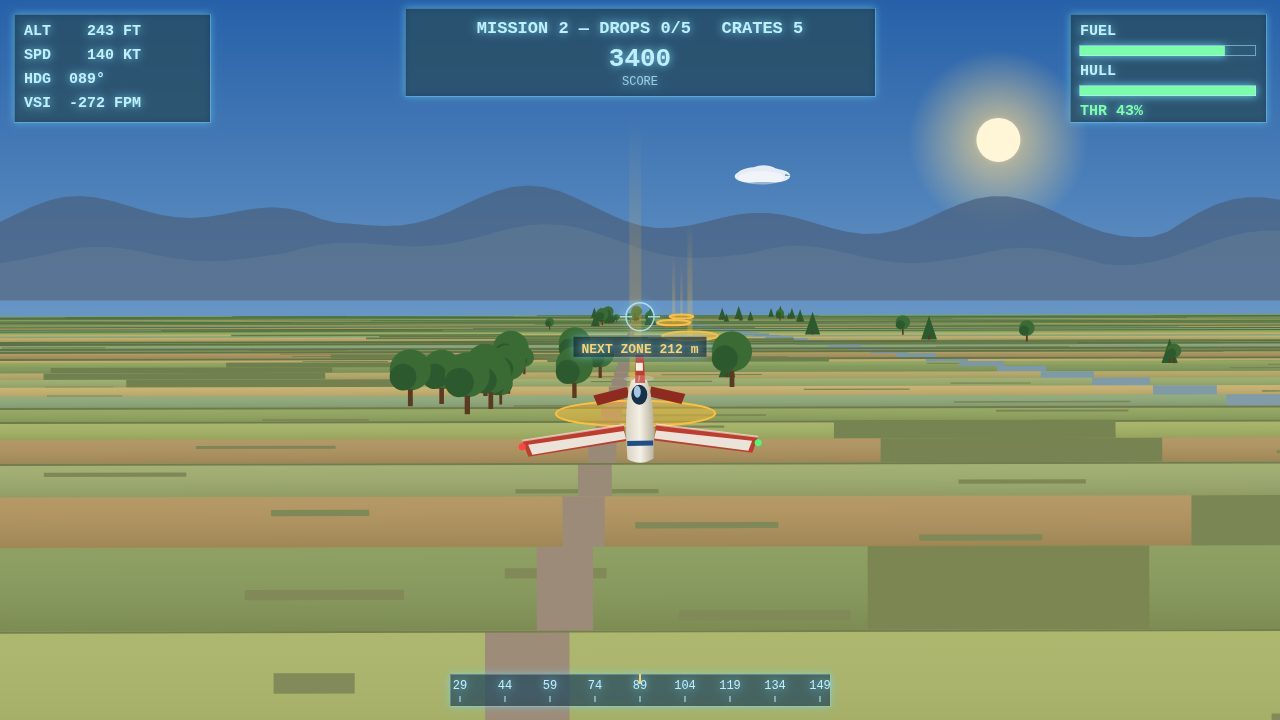
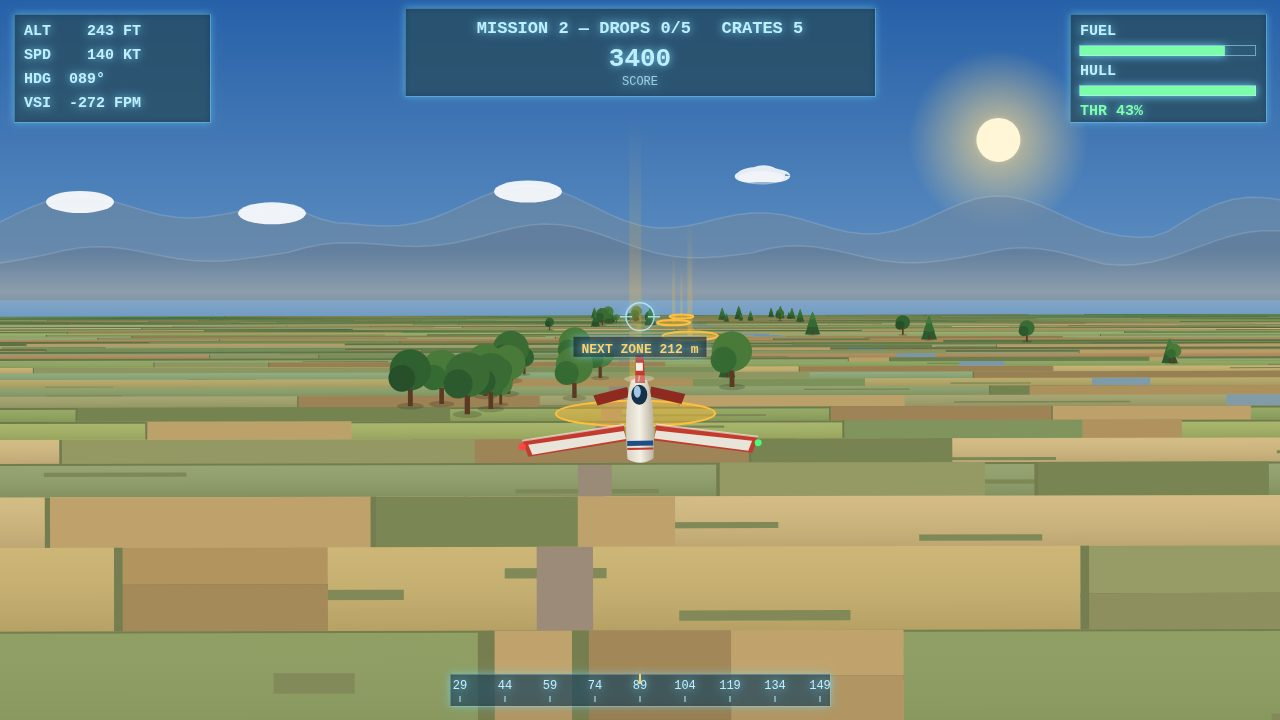
Sky Courier round 3: patchwork fields, horizon haze, mountain snow/ridge light, layered trees, runway tyre marks + threshold + mow stripes, lighter title overlay

diff --git a/game/src/render.js b/game/src/render.js
@@ -14,7 +14,11 @@ export const SCREEN_WIN = 6;
 const FIELDS = [
   [96, 148, 74], [124, 168, 82], [74, 128, 66], [176, 164, 96],
   [110, 158, 96], [88, 138, 88], [150, 150, 84], [138, 118, 70],
-  [92, 152, 112],
+  [92, 152, 112], [150, 112, 70], [190, 175, 120], [118, 142, 92],
+];
+const PATCH_COLS = [
+  [52, 96, 52], [138, 118, 70], [112, 96, 58], [70, 120, 70],
+  [160, 140, 90], [96, 128, 80],
 ];
 const RIVER_COL = [72, 132, 182];
 const ROAD_COL = [104, 104, 110];
@@ -79,7 +83,9 @@ export function createRenderer(canvas) {
     const base = layer === 0 ? 66 : 40;
     const amp = layer === 0 ? 34 : 22;
     const speed = layer === 0 ? 0.05 : 0.11;
-    const col = layer === 0 ? 'rgba(74,98,128,0.75)' : 'rgba(96,122,150,0.6)';
+    // Far range is hazier and lighter than the near one (atmospheric
+    // perspective), so the ridge reads as distance, not a flat wall.
+    const col = layer === 0 ? 'rgba(110,136,162,0.62)' : 'rgba(96,122,150,0.6)';
     // Sample the ridge first so snow caps can sit on its peaks.
     const ridge = [];
     for (let x = 0; x <= w; x += 16) {
@@ -94,18 +100,40 @@ export function createRenderer(canvas) {
     ctx.lineTo(w, horizonY + 2);
     ctx.closePath();
     ctx.fill();
-    // Snow caps on the far range's peaks.
+    // Lit ridge edge: a faint highlight along the crest so the range
+    // has a sunlit side instead of one flat fill.
+    ctx.strokeStyle = 'rgba(255,255,255,0.14)';
+    ctx.lineWidth = 1.5;
+    ctx.beginPath();
+    for (let k = 0; k < ridge.length; k += 1) {
+      const [x, y] = ridge[k];
+      if (k === 0) ctx.moveTo(x, y);
+      else ctx.lineTo(x, y);
+    }
+    ctx.stroke();
+    // Snow caps on the far range's peaks — big enough to read at a glance.
     if (layer === 0) {
-      ctx.fillStyle = 'rgba(255,255,255,0.85)';
+      ctx.fillStyle = 'rgba(255,255,255,0.9)';
       for (let i = 1; i < ridge.length - 1; i += 1) {
         const [x, y] = ridge[i];
-        if (y < ridge[i - 1][1] - 2 && y < ridge[i + 1][1] - 2) {
+        if (y < ridge[i - 1][1] - 1 && y < ridge[i + 1][1] - 1) {
           ctx.beginPath();
-          ctx.ellipse(x, y + 5, 26, 9, 0, 0, Math.PI * 2);
+          ctx.ellipse(x, y + 6, 34, 11, 0, 0, Math.PI * 2);
           ctx.fill();
         }
       }
     }
+  }
+
+  function drawHaze(w, horizonY) {
+    // A soft pale veil straddling the horizon: it melts the hard line
+    // where flat ground meets sky and gives the far world atmosphere.
+    const g = ctx.createLinearGradient(0, horizonY - 46, 0, horizonY + 26);
+    g.addColorStop(0, 'rgba(246,232,200,0)');
+    g.addColorStop(0.55, 'rgba(246,232,200,0.28)');
+    g.addColorStop(1, 'rgba(246,232,200,0)');
+    ctx.fillStyle = g;
+    ctx.fillRect(0, horizonY - 46, w, 72);
   }
 
   function drawClouds(w, horizonY, camZ, camX, clouds, camDepth) {
@@ -200,20 +228,22 @@ export function createRenderer(canvas) {
     ctx.fill();
     // Propeller blur: from chase view the spinning disc reads as a faint
     // thin ellipse at the nose, with two blur spokes turning with time.
-    ctx.fillStyle = 'rgba(255,255,255,0.20)';
+    ctx.fillStyle = 'rgba(255,255,255,0.28)';
     ctx.beginPath();
     ctx.ellipse(0, -54, 15, 3.5, 0, 0, Math.PI * 2);
     ctx.fill();
     const pa = time * 9;
-    ctx.strokeStyle = 'rgba(255,255,255,0.35)';
+    ctx.strokeStyle = 'rgba(255,255,255,0.45)';
     ctx.lineWidth = 1.5;
     ctx.beginPath();
     ctx.moveTo(-Math.cos(pa) * 13, -54 - Math.sin(pa) * 3);
     ctx.lineTo(Math.cos(pa) * 13, -54 + Math.sin(pa) * 3);
     ctx.stroke();
-    // Registration stripe.
+    // Registration stripe, plus a thin red cheatline below it.
     ctx.fillStyle = '#1d4e89';
     ctx.fillRect(-13, 8, 26, 5);
+    ctx.fillStyle = '#c23b2e';
+    ctx.fillRect(-13, 15, 26, 2);
     // Nav lights, blinking.
     if (Math.floor(time * 2) % 2 === 0) {
       ctx.fillStyle = '#ff4444';
@@ -345,7 +375,7 @@ export function createRenderer(canvas) {
   }
 
   function overlay(w, h, lines, accent) {
-    ctx.fillStyle = 'rgba(6,12,22,0.45)';
+    ctx.fillStyle = 'rgba(6,12,22,0.38)';
     ctx.fillRect(0, 0, w, h);
     const bw = Math.min(640, w - 60);
     const bh = 54 + lines.length * 30;
@@ -381,6 +411,7 @@ export function createRenderer(canvas) {
     drawSky(w, h, horizonY, state.time);
     drawMountains(w, h, horizonY, camZ, camX, 0);
     drawMountains(w, h, horizonY, camZ, camX, 1);
+    drawHaze(w, horizonY);
 
     // Bank the world a little with the roll.
     ctx.save();
@@ -449,11 +480,65 @@ export function createRenderer(canvas) {
             ctx.fillRect(-40, topY, w + 80, 2);
           }
         }
-        // Field patch: a darker strip across part of the band.
-        if (!onRunway && !crossRoad && hash(i * 7 + 3) < 0.5) {
-          const px = hash(i * 13 + 1) * w;
-          ctx.fillStyle = mix3([52, 96, 52], SKY_HORIZON, haze * 0.7);
-          ctx.fillRect(px, topY, w * 0.22, bandH);
+        // Field patchwork: two or three irregular plots per band, each a
+        // different crop colour with a hedgerow edge, so the ground reads
+        // as a patchwork of fields instead of one full-width stripe.
+        // Seeded by the band index, so the same band always looks the same.
+        if (!onRunway && !crossRoad) {
+          const patchCount = 2 + Math.floor(hash(i * 41 + 9) * 2);
+          for (let p = 0; p < patchCount; p += 1) {
+            const px = hash(i * 47 + p * 23 + 3) * w * 0.9;
+            const pw = w * (0.12 + hash(i * 19 + p * 31 + 7) * 0.22);
+            const pcol = PATCH_COLS[Math.floor(hash(i * 53 + p * 11 + 5) * PATCH_COLS.length)];
+            ctx.fillStyle = mix3(pcol, SKY_HORIZON, haze * 0.7);
+            ctx.fillRect(px, topY, pw, bandH);
+            // Tall near bands: split the patch horizontally with a
+            // hedgerow line and a darker lower half, so a huge
+            // foreground band does not read as one flat slab. The split
+            // sits inside the VISIBLE part of the band — a tall band
+            // runs far below the frame, so a fraction of its full height
+            // would land off-screen.
+            if (bandH > 60) {
+              const visH = Math.min(bandH, h - topY);
+              const split = topY + visH * (0.4 + hash(i * 61 + p * 7) * 0.2);
+              ctx.fillStyle = mix3([40, 70, 44], SKY_HORIZON, haze * 0.7);
+              ctx.fillRect(px, split, pw, Math.max(1, visH * 0.05));
+              const darker = [Math.round(pcol[0] * 0.85), Math.round(pcol[1] * 0.85), Math.round(pcol[2] * 0.85)];
+              ctx.fillStyle = mix3(darker, SKY_HORIZON, haze * 0.7);
+              ctx.fillRect(px, split, pw, topY + bandH - split);
+            }
+            // Hedgerow along the patch's left edge.
+            ctx.fillStyle = mix3([42, 82, 46], SKY_HORIZON, haze * 0.7);
+            ctx.fillRect(px, topY, Math.max(1, bandH * 0.1), bandH);
+          }
+        }
+        // Airfield grass: mowing stripes in world space — every other
+        // 40 m strip is mown lighter, so the near airfield does not read
+        // as one flat warm slab (the near-field warm tint flattens it).
+        // Drawn before the strip, so the asphalt covers the middle.
+        if (onRunway && !crossRoad) {
+          for (let k = -20; k <= 20; k += 1) {
+            if (k % 2 !== 0) continue;
+            const wx = k * 40;
+            const sx = w / 2 + (camDepth * (wx - camX)) / d;
+            const sw = Math.max(1.5, (camDepth * 40) / d);
+            if (sx + sw < -20 || sx - sw > w + 20) continue;
+            ctx.fillStyle = mix3([124, 164, 102], SKY_HORIZON, haze * 0.7);
+            ctx.fillRect(sx - sw / 2, topY, sw, bandH);
+          }
+        }
+        // Tall near airfield bands: split horizontally with a mow line
+        // and a slightly darker lower half, so the foreground grass is
+        // not one flat slab (world-space stripes are wider than the
+        // screen this close to the camera, so they cannot do the job).
+        // The split sits inside the VISIBLE part of the band.
+        if (onRunway && !crossRoad && bandH > 60) {
+          const visH = Math.min(bandH, h - topY);
+          const split = topY + visH * (0.45 + hash(i * 71 + 3) * 0.15);
+          ctx.fillStyle = mix3([70, 110, 60], SKY_HORIZON, haze * 0.7);
+          ctx.fillRect(-40, split, w + 80, Math.max(1, visH * 0.05));
+          ctx.fillStyle = mix3([88, 119, 73], SKY_HORIZON, haze * 0.7);
+          ctx.fillRect(-40, split, w + 80, topY + bandH - split);
         }
         // The runway: asphalt strip on the grass, thin dashed centreline,
         // edge lines, taxiway and amber edge lights. Line widths are
@@ -465,6 +550,15 @@ export function createRenderer(canvas) {
           // Asphalt strip.
           ctx.fillStyle = mix3([88, 88, 96], SKY_HORIZON, haze * 0.7);
           ctx.fillRect(cx - half, topY, half * 2, bandH);
+          // Tyre marks: two dark wheel tracks down the strip, so the
+          // asphalt has texture even at close range, where the strip is
+          // wider than the screen and nothing else reads on it.
+          for (const side of [-1, 1]) {
+            const tx = cx + side * ((camDepth * 6) / d);
+            const tw = Math.max(1.5, (camDepth * 2.2) / d);
+            ctx.fillStyle = 'rgba(52,52,60,0.4)';
+            ctx.fillRect(tx - tw / 2, topY, tw, bandH);
+          }
           // Centreline dashes: 20 m of paint, 30 m of gap, in world space.
           const zm = z - SEG_LEN / 2;
           if ((((zm % 50) + 50) % 50) < 20) {
@@ -484,6 +578,22 @@ export function createRenderer(canvas) {
           ctx.moveTo(cx + half, y);
           ctx.lineTo(cx + half, prevY);
           ctx.stroke();
+          // Threshold bars at the start of the strip: eight white bars
+          // across the asphalt, so the runway's beginning reads clearly.
+          if (z - RUNWAY.z0 < 60) {
+            ctx.fillStyle = 'rgba(255,255,255,0.85)';
+            const bars = 8;
+            for (let b = 0; b < bars; b += 1) {
+              const bx0 = cx - half + ((b + 0.15) / bars) * half * 2;
+              const bw = (half * 2 * 0.7) / bars;
+              ctx.fillRect(bx0, topY, bw, bandH);
+            }
+          }
+          // Mown grass shoulder on the left of the strip, lighter than
+          // the surrounding field, so the airfield has a kept edge.
+          const shoulderW = Math.max(2, (camDepth * 10) / d);
+          ctx.fillStyle = mix3([126, 162, 100], SKY_HORIZON, haze * 0.7);
+          ctx.fillRect(cx - half - shoulderW, topY, shoulderW, bandH);
           // Taxiway beside the strip, and amber edge lights down both sides.
           const taxiW = Math.max(2, (camDepth * 12) / d);
           ctx.fillStyle = mix3([70, 70, 78], SKY_HORIZON, haze * 0.7);
@@ -575,24 +685,50 @@ export function createRenderer(canvas) {
         const gy = horizonY + (camDepth * (camAlt - world.groundAt(t.z))) / d;
         const s = (camDepth * 9 * t.s) / d;
         if (s < 2 || sx < -20 || sx > w + 20) continue;
+        // Soft ground shadow so the tree sits on the field, not on top of it.
+        ctx.fillStyle = 'rgba(0,0,0,0.16)';
+        ctx.beginPath();
+        ctx.ellipse(sx, gy, s * 0.55, s * 0.14, 0, 0, Math.PI * 2);
+        ctx.fill();
+        const greens = t.round
+          ? [['#3a6b35', '#2c5a2e'], ['#4a7a3a', '#356b33'], ['#2f6030', '#274f2a']]
+          : [['#2c5a2e', '#356b33', '#3f7a3a'], ['#27512b', '#2f6030', '#3a7038']];
+        const g = greens[Math.floor(hash(Math.floor(t.z) * 7 + Math.floor(t.x)) * greens.length)];
         if (t.round) {
-          // Round-canopy tree: a leafy crown over a trunk.
-          ctx.fillStyle = '#3a6b35';
+          // Round-canopy tree: two overlapping crowns over a trunk, so it
+          // reads as a volume from any distance.
+          ctx.fillStyle = g[0];
           ctx.beginPath();
           ctx.arc(sx, gy - s * 1.5, s * 0.85, 0, Math.PI * 2);
           ctx.fill();
-          ctx.fillStyle = '#2c5a2e';
+          ctx.fillStyle = g[1];
           ctx.beginPath();
-          ctx.arc(sx - s * 0.3, gy - s * 1.2, s * 0.55, 0, Math.PI * 2);
+          ctx.arc(sx - s * 0.35, gy - s * 1.15, s * 0.55, 0, Math.PI * 2);
           ctx.fill();
           ctx.fillStyle = '#5a3a22';
           ctx.fillRect(sx - s * 0.1, gy - s * 0.7, s * 0.2, s * 0.7);
         } else {
-          ctx.fillStyle = '#2c5a2e';
+          // Layered conifer: three stacked tiers, lightest at the top,
+          // so a big near pine reads as a pine instead of a flat triangle.
+          ctx.fillStyle = g[0];
           ctx.beginPath();
           ctx.moveTo(sx, gy - s * 2.4);
           ctx.lineTo(sx - s * 0.8, gy);
           ctx.lineTo(sx + s * 0.8, gy);
+          ctx.closePath();
+          ctx.fill();
+          ctx.fillStyle = g[1];
+          ctx.beginPath();
+          ctx.moveTo(sx, gy - s * 2.4);
+          ctx.lineTo(sx - s * 0.58, gy - s * 0.8);
+          ctx.lineTo(sx + s * 0.58, gy - s * 0.8);
+          ctx.closePath();
+          ctx.fill();
+          ctx.fillStyle = g[2];
+          ctx.beginPath();
+          ctx.moveTo(sx, gy - s * 2.4);
+          ctx.lineTo(sx - s * 0.36, gy - s * 1.6);
+          ctx.lineTo(sx + s * 0.36, gy - s * 1.6);
           ctx.closePath();
           ctx.fill();
           ctx.fillStyle = '#5a3a22';
